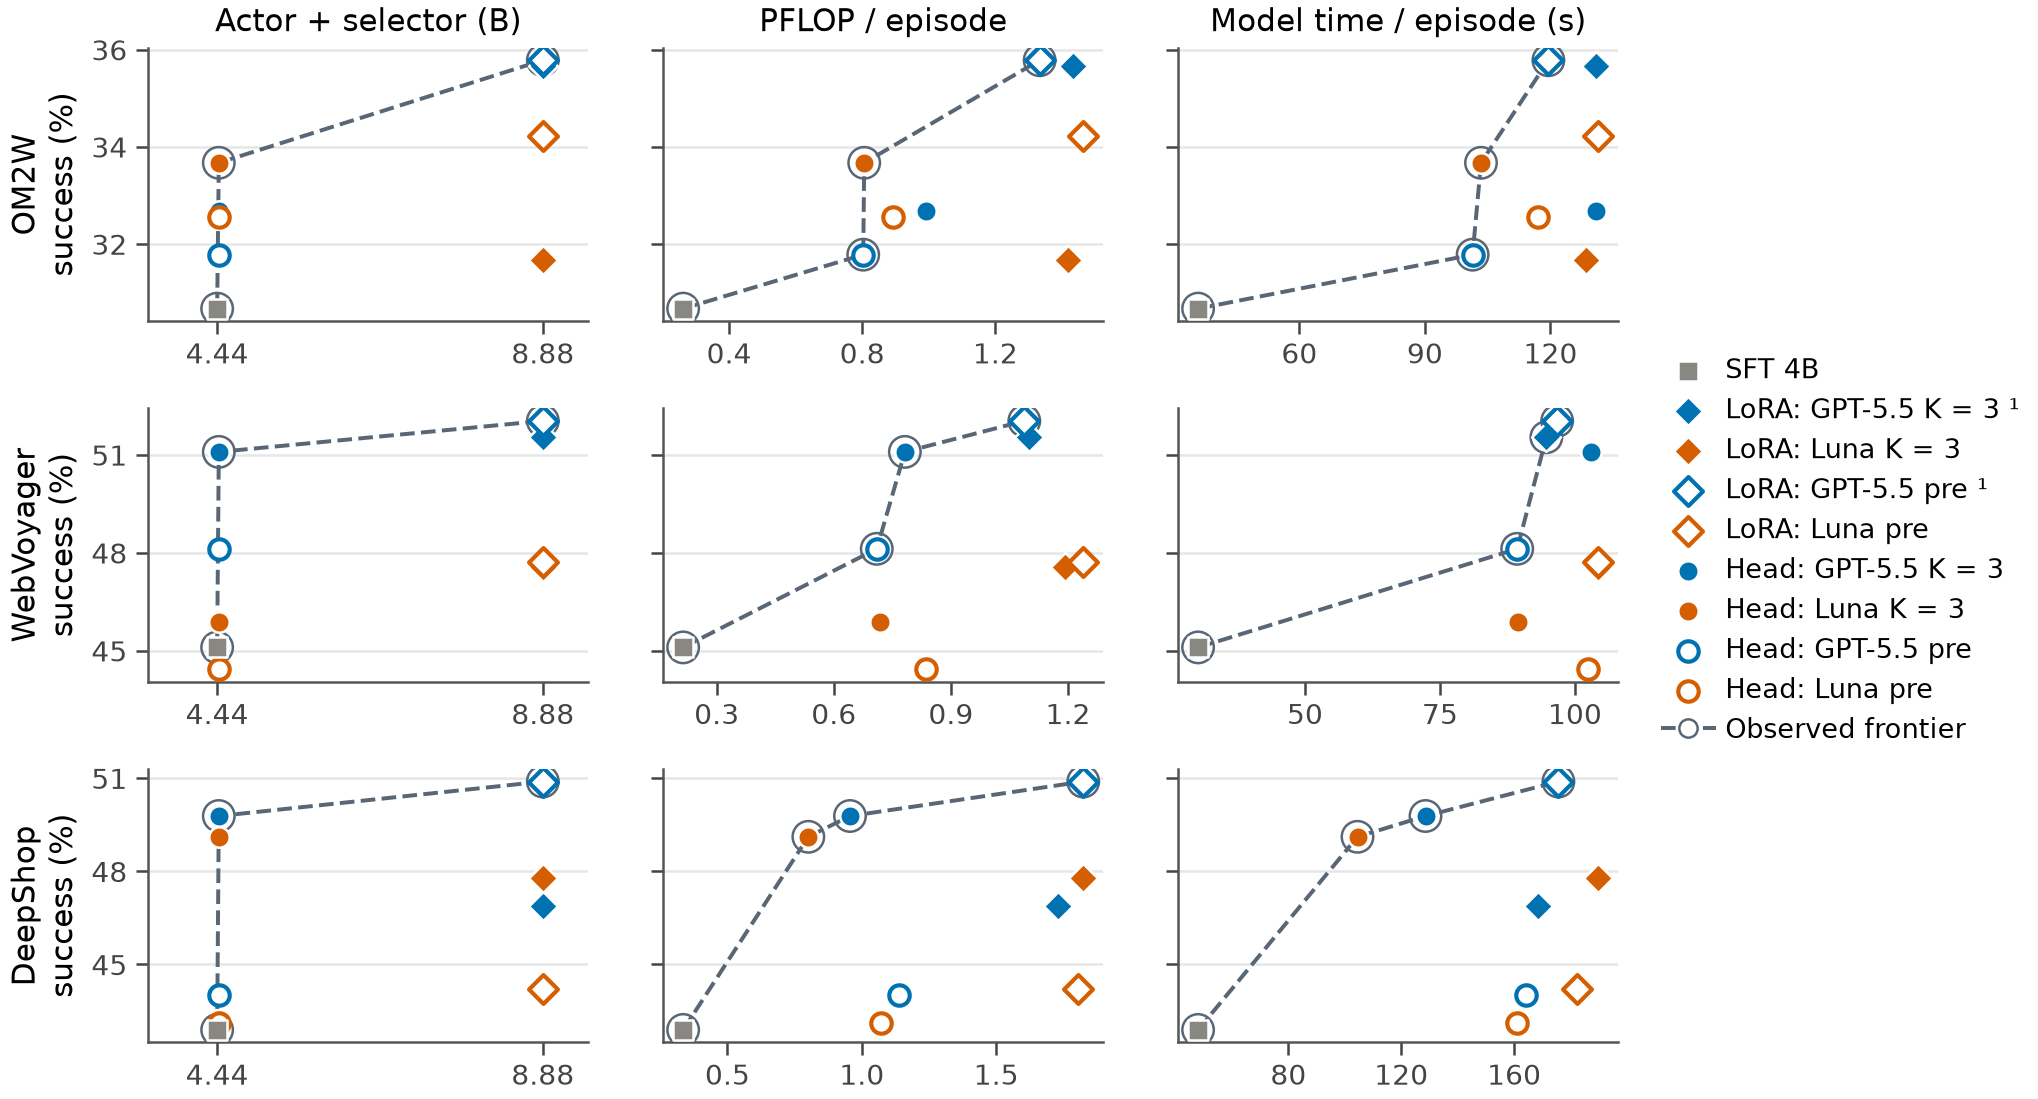
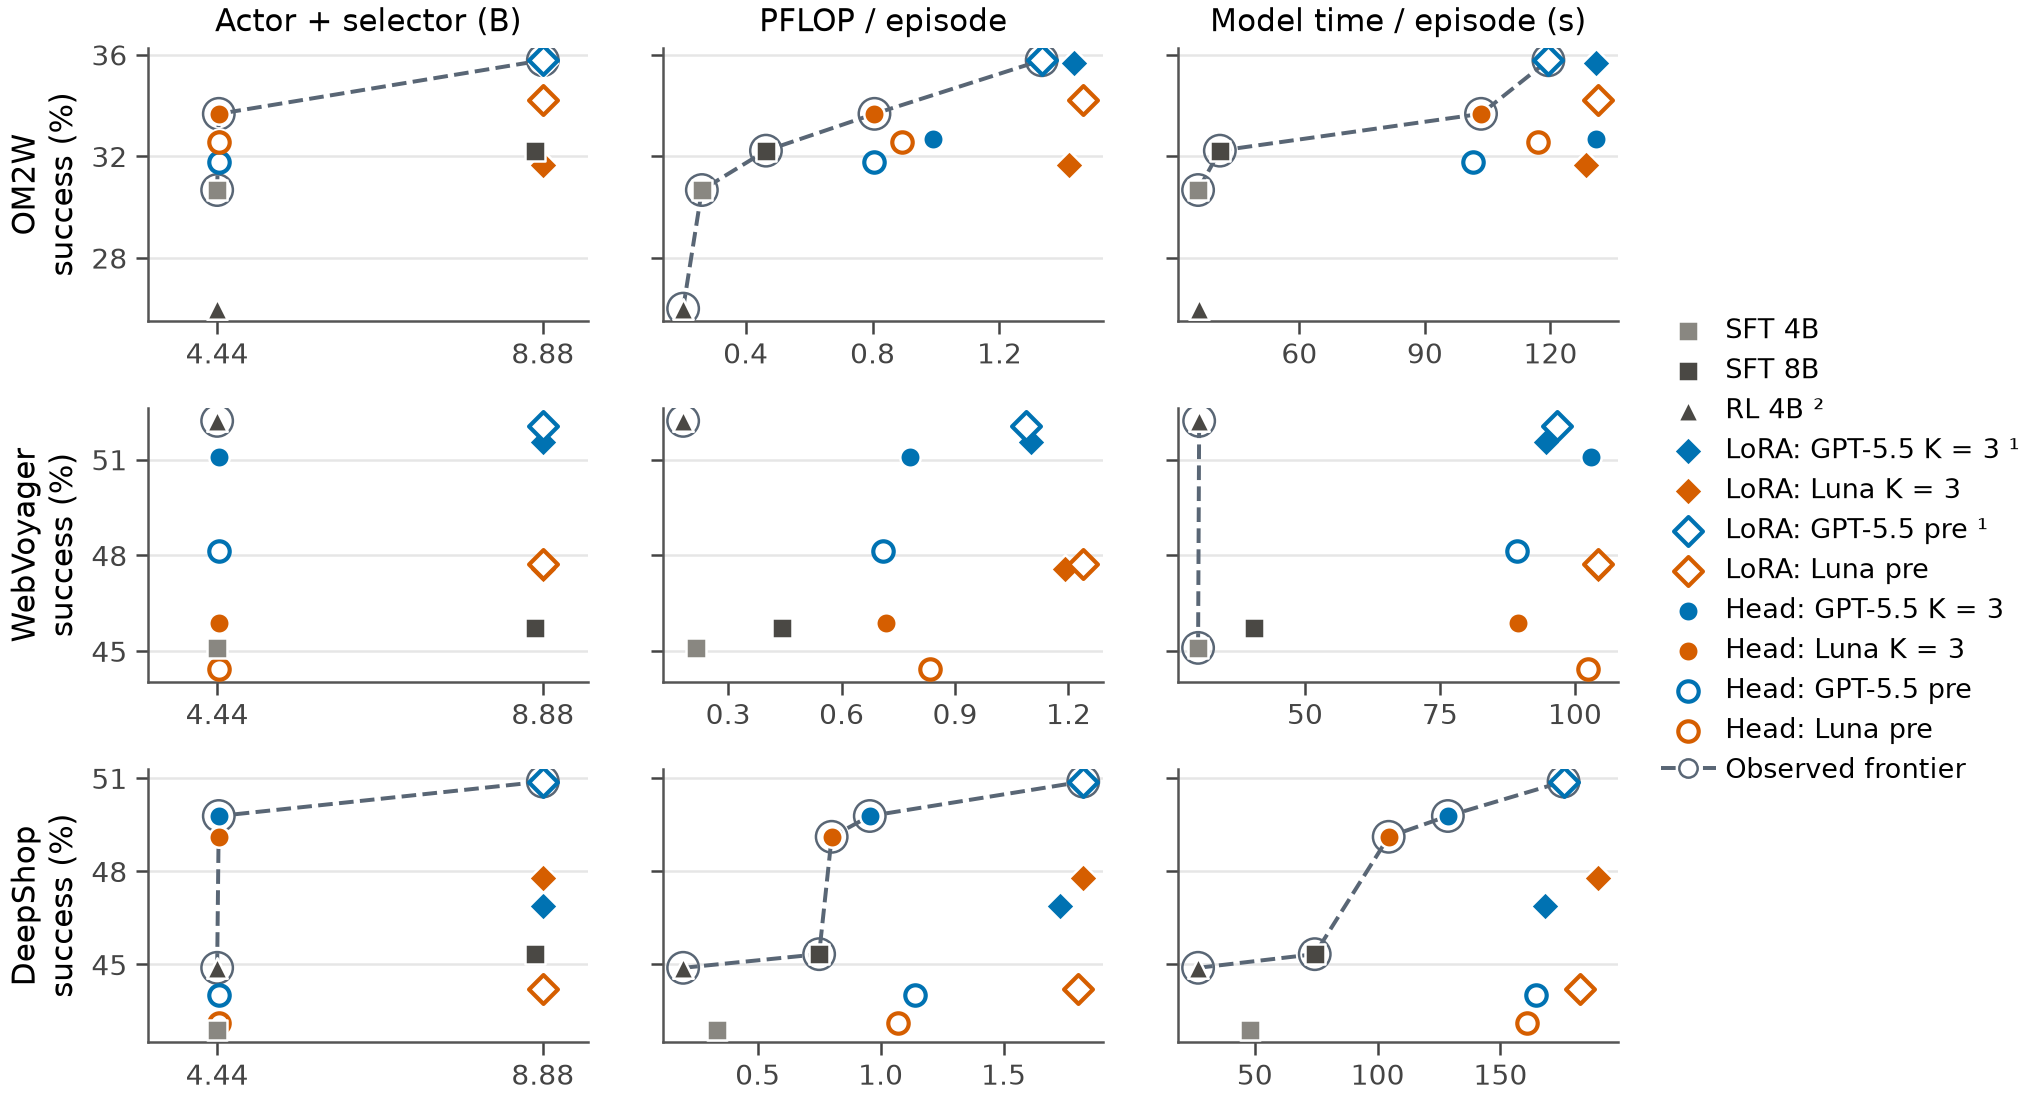
Recipe 3: SFT 8B and RL 4B alone (11-04) as baseline rows and plot points

diff --git a/openwebrl/docs/arm_results/rl_integration/selection-recipe3-gpt55-lora-sameday-20261104.py b/openwebrl/docs/arm_results/rl_integration/selection-recipe3-gpt55-lora-sameday-20261104.py
@@ -1,4 +1,5 @@
-"""Same-day 2026-11-04 rerun: GPT-5.5 K=3 LoRA, GPT-5.5 pre LoRA and SelectionARM, 3 runs each, all 1,045 tasks.
+"""Same-day 2026-11-04 rerun: GPT-5.5 K=3 LoRA, GPT-5.5 pre LoRA and SelectionARM, plus SFT 8B alone and the RL 4B checkpoint
+alone (616cc8f, 4,096 response tokens), 3 runs each, all 1,045 tasks.
 Also against the 11-03/04 night SFT 4B run (controls-sameday-20261103; adjacent window, not same-day).
 Overall = success / scheduled (invalid = failure); valid-only = success / valid. Paired diffs: per-task success averaged
 over the three runs, 10,000 task resamples within benchmark (seed 20261104); mean = equal-weight average of 3 benchmarks."""
@@ -7,7 +8,8 @@ E = '/gpfs/scrubbed/zixianma/openwebrl-runtime/evaluations'
 B = ('online_mind2web', 'webvoyager', 'deepshop'); N = {'webvoyager': 595, 'online_mind2web': 300, 'deepshop': 150}
 C = {'GPT-5.5 K=3 LoRA': ('sameday-lora-20261104', 'arm5-9fadc8dc4655'), 'GPT-5.5 pre LoRA': ('sameday-lora-20261104', 'arm5-80ee47643be2'),
      'SelectionARM': ('sameday-lora-20261104', 'piotr5'), 'SFT 4B (11-03/04)': ('controls-sameday-20261103', 'sft1'),
-     'SelectionARM (11-03/04)': ('controls-sameday-20261103', 'piotr5')}
+     'SelectionARM (11-03/04)': ('controls-sameday-20261103', 'piotr5'),
+     'SFT 8B': ('sameday-actors-20261104/sft8b', 'sft1'), 'RL 4B (4,096 tokens)': ('sameday-actors-20261104/rl', 'sft1')}
 def load(root, slug, b):
     out = []
     for r in ('run1', 'run2', 'run3'):
@@ -31,7 +33,8 @@ def pt(c, b):
 paired = {}
 for a, ref in [('GPT-5.5 pre LoRA', 'GPT-5.5 K=3 LoRA'), ('GPT-5.5 K=3 LoRA', 'SelectionARM'), ('GPT-5.5 pre LoRA', 'SelectionARM'),
                ('GPT-5.5 K=3 LoRA', 'SFT 4B (11-03/04)'), ('GPT-5.5 pre LoRA', 'SFT 4B (11-03/04)'), ('SelectionARM', 'SFT 4B (11-03/04)'),
-               ('SelectionARM', 'SelectionARM (11-03/04)')]:
+               ('SelectionARM', 'SelectionARM (11-03/04)'), ('SFT 8B', 'SFT 4B (11-03/04)'), ('RL 4B (4,096 tokens)', 'SFT 4B (11-03/04)'),
+               ('SelectionARM', 'SFT 8B'), ('GPT-5.5 pre LoRA', 'SFT 8B'), ('GPT-5.5 K=3 LoRA', 'SFT 8B'), ('SelectionARM', 'RL 4B (4,096 tokens)'), ('GPT-5.5 pre LoRA', 'RL 4B (4,096 tokens)')]:
     per, boots = {}, []
     for b in B:
         x, y = pt(a, b), pt(ref, b); ts = sorted(set(x) | set(y))

diff --git a/openwebrl/docs/arm_results/rl_integration/selection-recipe3-vs-cost-20261104-analysis.py b/openwebrl/docs/arm_results/rl_integration/selection-recipe3-vs-cost-20261104-analysis.py
@@ -10,8 +10,11 @@ E = Path('/gpfs/scrubbed/zixianma/openwebrl-runtime/evaluations')
 HERE = Path(__file__).resolve().parent
 BENCH = ('online_mind2web', 'webvoyager', 'deepshop')
 P4B = 4022468096 + 415347712
+P8B = 8767123696
 CONDS = {  # key: (label, root, slug, kind)
     'sft1': ('SFT 4B, 1 sample', 'controls-sameday-20261103', 'sft1', 'none'),
+    'sft8b': ('SFT 8B, 1 sample', 'sameday-actors-20261104/sft8b', 'sft1', 'none'),
+    'rl4b': ('RL 4B, 1 sample (4,096 tokens)', 'sameday-actors-20261104/rl', 'sft1', 'none'),
     'piotr5': ('Piotr SelectionARM', 'controls-sameday-20261103', 'piotr5', 'lora'),
     'lora-gpt55-k3': ('4B LoRA, Recipe 3 GPT-5.5 K=3', 'sameday-lora-20261104', 'arm5-9fadc8dc4655', 'lora'),
     'lora-luna-k3': ('4B LoRA, Recipe 3 Luna K=3', 'p16-lora-lunak3-20261103', 'arm5-2ed62dd7c4dc', 'lora'),
@@ -48,7 +51,7 @@ with ThreadPoolExecutor(int(os.environ.get('SLURM_CPUS_PER_TASK', '1'))) as pool
         for b in BENCH:
             eps = list(pool.map(episode, sorted((E / root / 'run1' / b / slug / b / 'collection' / 'records').glob('*.json'))))
             n = len(eps); steps = sum(e['steps'] for e in eps)
-            actor_pf = 2 * P4B * sum(e['prompt'] - e['cached'] + e['completion'] for e in eps) / 1e15
+            actor_pf = 2 * (P8B if k == 'sft8b' else P4B) * sum(e['prompt'] - e['cached'] + e['completion'] for e in eps) / 1e15
             sel_pf = (2 * P4B * sum(e['sel_tokens'] for e in eps) if kind == 'lora' else sum(e['head_flops'] for e in eps)) / 1e15
             s, ns = success(root, slug, b)
             rows.append(dict(key=k, condition=label, kind=kind, benchmark=b, cost_tasks=n, success_episodes=ns, successes=s,

diff --git a/openwebrl/docs/arm_results/rl_integration/selection-recipe3-vs-cost-20261104.py b/openwebrl/docs/arm_results/rl_integration/selection-recipe3-vs-cost-20261104.py
@@ -22,6 +22,8 @@ HEAD, LORA, SFT = 4.44e9 + 22.6e6, 8.88e9, 4.44e9
 FRONTIER = "#596675"
 methods = [  # key, legend label, params, color, marker, hollow
     ("sft1", "SFT 4B", SFT, "#898781", "s", False),
+    ("sft8b", "SFT 8B", 8.77e9, "#4a4844", "s", False),
+    ("rl4b", "RL 4B ²", SFT, "#4a4844", "^", False),
     ("lora-gpt55-k3", "LoRA: GPT-5.5 K = 3 ¹", LORA, "#0072B2", "D", False),
     ("lora-luna-k3", "LoRA: Luna K = 3", LORA, "#D55E00", "D", False),
     ("lora-gpt55-pre", "LoRA: GPT-5.5 pre ¹", LORA, "#0072B2", "D", True),
@@ -54,7 +56,7 @@ def panel(ax, bench, k):
         r = point(key, bench)
         x = p / 1e9 if k == "params" else r[k]
         pts.append((x, r["overall"]))
-        ax.scatter(x, r["overall"], s=24, marker=marker, zorder=4 if key == "sft1" else 3,
+        ax.scatter(x, r["overall"], s=24, marker=marker, zorder=4 if key in ("sft1", "sft8b", "rl4b") else 3,
                    facecolor="white" if hollow else color, edgecolor=color if hollow else "white",
                    linewidth=1.0 if hollow else 0.6, label=label)
     fr = frontier(pts)

diff --git a/openwebrl/docs/ARM_FINAL_RESULTS.md b/openwebrl/docs/ARM_FINAL_RESULTS.md
@@ -920,6 +920,8 @@ Its conservative all-attempt model total was $353.582380 ($348.649556 known usag
 | --- | --- | ---: | ---: | ---: | ---: | ---: | ---: |
 | ***Baseline*** | | | | | | | |
 | SFT 4B alone (1 sample) | — | 34.6% | 45.6% | 43.1% | 39.6% | 41.1% | — |
+| SFT 8B alone (1 sample) ¹ | — | 36.2% | 46.8% | 46.4% | 41.1% | 43.1% | +1.5 [−0.7, +3.7] |
+| RL 4B alone (1 sample, 4,096 tokens) ¹ | — | 29.3% | 53.8% | 45.2% | 41.0% | 42.8% | +1.5 [−0.7, +3.6] |
 | ***Recipe 1 reference*** | | | | | | | |
 | Piotr SelectionARM (4B LoRA) | Recipe 1 | **43.8%** | 52.4% | 50.5% | <ins>45.7%</ins> | **48.9%** | <ins>+6.2 [+4.0, +8.3]</ins> |
 | ***Ours: 4B LoRAs (SelectionARM recipe)*** | | | | | | | |
@@ -933,7 +935,7 @@ Its conservative all-attempt model total was $353.582380 ($348.649556 known usag
 | Head | *Ablation:* Recipe 3 panels, GPT-5.5 pre | 36.8% | 49.9% | 45.0% | 41.3% | 43.9% | +1.7 [−0.5, +4.0] |
 | Head | *Ablation:* Recipe 3 panels, Luna pre | 38.8% | 47.3% | 46.1% | 40.0% | 44.1% | +0.5 [−1.7, +2.7] |
 
-¹ Re-evaluated in a same-day 3-run batch on November 4 together with SelectionARM, the window right after the SFT and SelectionARM rows above (November 3–4). SelectionARM did not move between the two windows (−0.5 [−2.4, +1.4] pp), so the − SFT differences of these two rows are adjacent-window, not same-day. Same-day on November 4: GPT-5.5 pre − K = 3 LoRA +1.5 [−0.6, +3.6], K = 3 LoRA − SelectionARM −0.5 [−2.4, +1.4], pre LoRA − SelectionARM +1.0 [−1.0, +3.1] ([data](arm_results/rl_integration/selection-recipe3-gpt55-lora-sameday-20261104.json) · [script](arm_results/rl_integration/selection-recipe3-gpt55-lora-sameday-20261104.py)). Absolute numbers are not comparable with the October tables above (DeepShop success has drifted upward since November 1).
+¹ Re-evaluated in a same-day 3-run batch on November 4 together with SelectionARM, the window right after the SFT and SelectionARM rows above (November 3–4). SelectionARM did not move between the two windows (−0.5 [−2.4, +1.4] pp), so the − SFT differences of these two rows are adjacent-window, not same-day. Same-day on November 4: GPT-5.5 pre − K = 3 LoRA +1.5 [−0.6, +3.6], K = 3 LoRA − SelectionARM −0.5 [−2.4, +1.4], pre LoRA − SelectionARM +1.0 [−1.0, +3.1] ([data](arm_results/rl_integration/selection-recipe3-gpt55-lora-sameday-20261104.json) · [script](arm_results/rl_integration/selection-recipe3-gpt55-lora-sameday-20261104.py)). Absolute numbers are not comparable with the October tables above (DeepShop success has drifted upward since November 1). SFT 8B alone and the RL 4B checkpoint alone (`OpenWebRL-4B` 616cc8f, 4,096 response tokens as in the RL-actor protocol) ran in the same November 4 window; against same-day SelectionARM they are −4.1 [−6.4, −1.9] and −4.2 [−6.5, −1.8] pp. The RL checkpoint gains on WebVoyager (+7.1 pp over SFT 4B) and loses on Online-Mind2Web (−4.7).
 
 **Which labels to train our head on** (SFT 4B actor, November 1–3; six heads on the same 1,380 branch states, differing only in label source). [Details](#final-selection-label-live-3run-20261103)
 
@@ -970,7 +972,7 @@ Its conservative all-attempt model total was $353.582380 ($348.649556 known usag
 
 ![Recipe 3 selectors: 3-benchmark mean overall success vs actor + selector parameters, PFLOP per episode and model time per episode, with same-day SFT 4B](arm_results/rl_integration/selection-recipe3-vs-cost-20261104.png)
 
-*Recipe 3 update of the [October 21 cost plot](#final-selection-head-ablations-20261021) (whose points are from October 21 and are not comparable: DeepShop success has drifted up about 13 pp since). SFT 4B actor, November 3–4, with the SFT 4B run of the same window. Success: 3-benchmark equal-weight mean of overall success (invalid = failure), three runs pooled. Cost from run 1 (all 1,045 tasks), as in the October plot: actor PFLOP = 2 × params × (uncached prompt + generated tokens), LoRA selectors 2 × 4.44 B × their tokens, head FLOPs as logged; model time = actor + selector decision time per episode, excluding browser execution. Filled = K = 3 labels (Recipe 3), hollow = pre-execution labels on the same panels; diamonds = 4B LoRAs, circles = 22.6M heads; blue = GPT-5.5, vermilion = Luna labels. Dashed segments and rings mark the observed Pareto frontier of each panel, as in the API plots: points not beaten by any other point on both lower x and higher success. They are descriptive, not attainable interpolations or significant differences. ¹ The GPT-5.5 LoRAs are from the November 4 same-day rerun, the window right after the other rows (SelectionARM unchanged between the two windows: −0.5 [−2.4, +1.4] pp); their costs are measured on that rerun. Points are descriptive, without uncertainty bars; paired intervals are in the table above.* [PDF](arm_results/rl_integration/selection-recipe3-vs-cost-20261104.pdf) · [SVG](arm_results/rl_integration/selection-recipe3-vs-cost-20261104.svg) · [data](arm_results/rl_integration/selection-recipe3-vs-cost-20261104.json) · [cost script](arm_results/rl_integration/selection-recipe3-vs-cost-20261104-analysis.py) · [plot script](arm_results/rl_integration/selection-recipe3-vs-cost-20261104.py)
+*Recipe 3 update of the [October 21 cost plot](#final-selection-head-ablations-20261021) (whose points are from October 21 and are not comparable: DeepShop success has drifted up about 13 pp since). SFT 4B actor, November 3–4, with the SFT 4B run of the same window. Success: 3-benchmark equal-weight mean of overall success (invalid = failure), three runs pooled. Cost from run 1 (all 1,045 tasks), as in the October plot: actor PFLOP = 2 × params × (uncached prompt + generated tokens), LoRA selectors 2 × 4.44 B × their tokens, head FLOPs as logged; model time = actor + selector decision time per episode, excluding browser execution. Filled = K = 3 labels (Recipe 3), hollow = pre-execution labels on the same panels; diamonds = 4B LoRAs, circles = 22.6M heads; blue = GPT-5.5, vermilion = Luna labels. Squares are single-sample actors (SFT 4B gray, SFT 8B dark); ² the dark triangle is the RL 4B checkpoint alone (4,096 response tokens, November 4), a different actor from every selector here, whose shorter episodes make it the cheapest point. Dashed segments and rings mark the observed Pareto frontier of each panel, as in the API plots: points not beaten by any other point on both lower x and higher success. They are descriptive, not attainable interpolations or significant differences. ¹ The GPT-5.5 LoRAs are from the November 4 same-day rerun, the window right after the other rows (SelectionARM unchanged between the two windows: −0.5 [−2.4, +1.4] pp); their costs are measured on that rerun. Points are descriptive, without uncertainty bars; paired intervals are in the table above.* [PDF](arm_results/rl_integration/selection-recipe3-vs-cost-20261104.pdf) · [SVG](arm_results/rl_integration/selection-recipe3-vs-cost-20261104.svg) · [data](arm_results/rl_integration/selection-recipe3-vs-cost-20261104.json) · [cost script](arm_results/rl_integration/selection-recipe3-vs-cost-20261104-analysis.py) · [plot script](arm_results/rl_integration/selection-recipe3-vs-cost-20261104.py)
 
 **Per benchmark:**
 
